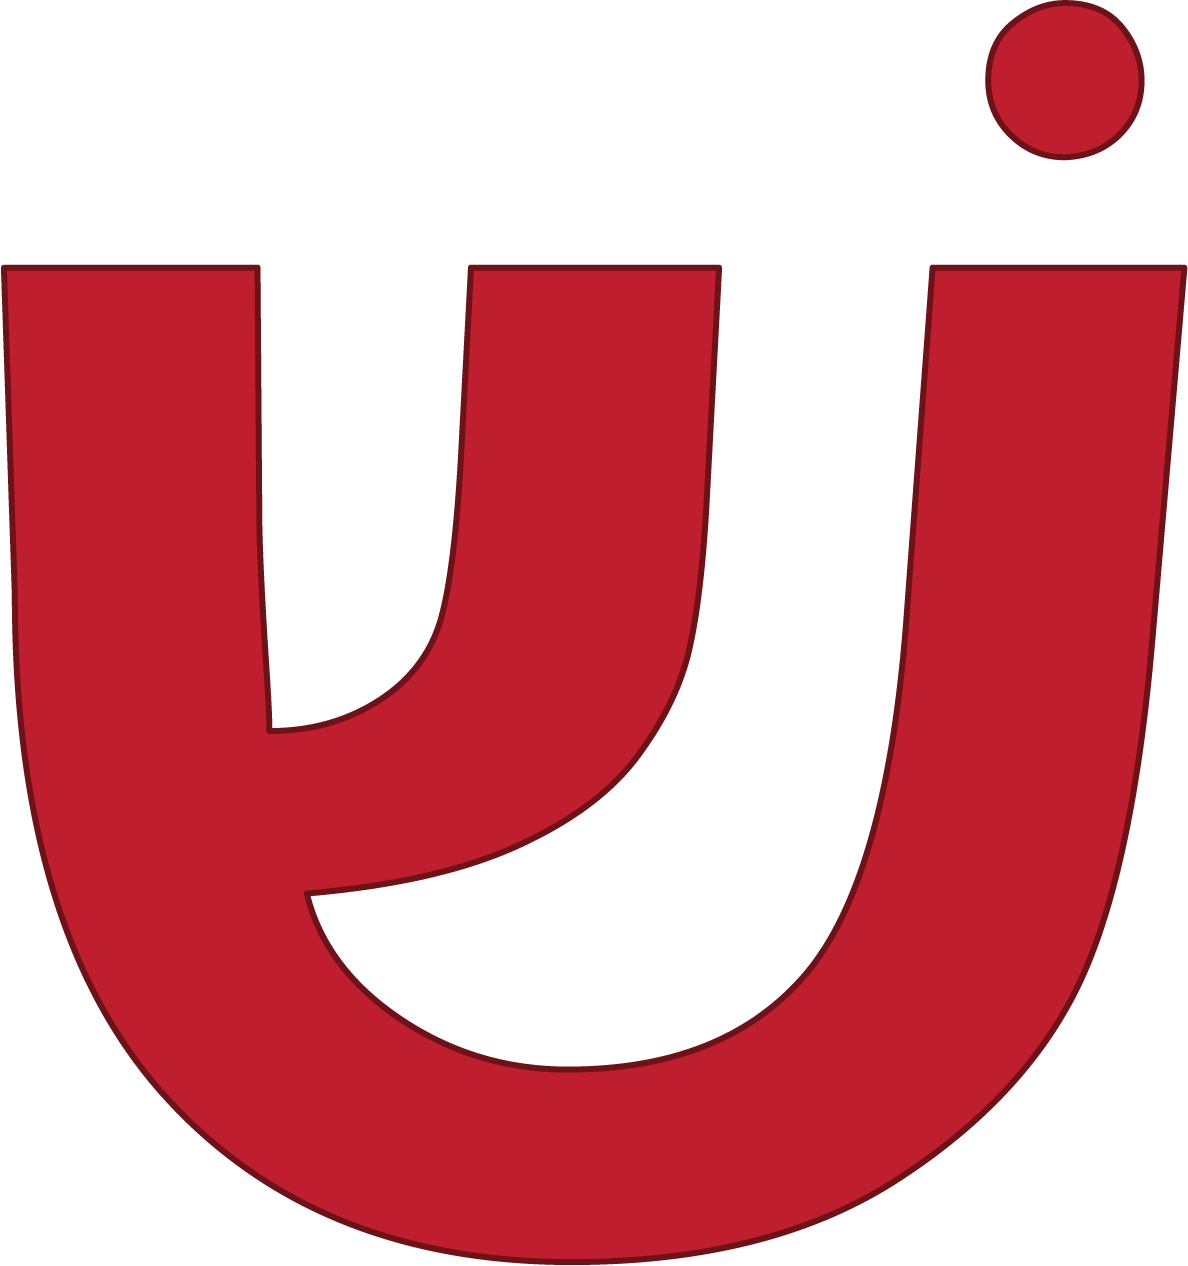
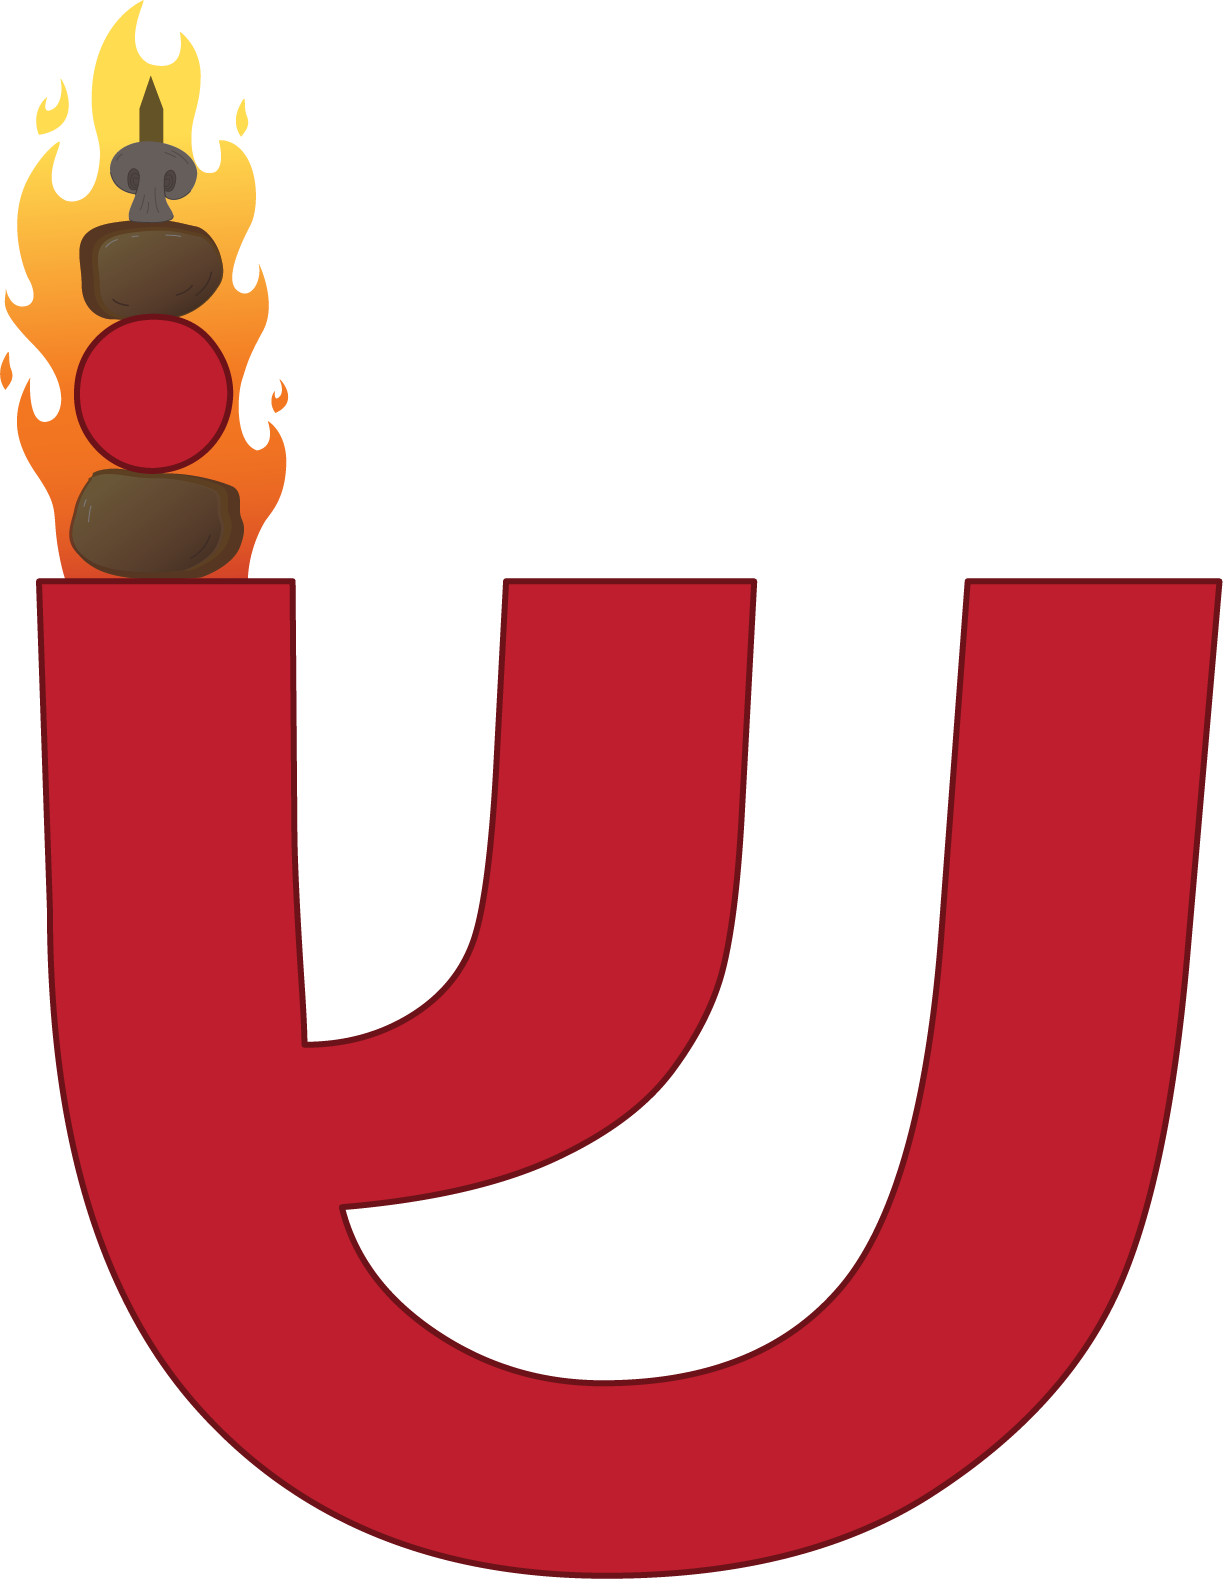
no message

diff --git a/start.html b/start.html
@@ -60,15 +60,22 @@
     }
 
     function onClick(){
-      console.log("click")
+      var origSrc = document.getElementById("img").src;
+      if(origSrc.indexOf("2")>0){
+        return;
+      }
+      var newSrc = origSrc.slice(0,origSrc.indexOf("."));
+      document.getElementById("img").src = newSrc + "2.png";
+      document.getElementById("img").setAttribute("height", "auto");
     }
+
 
     </script>
   </head>
   <body  style="height:100%">
     <div id="container">
       <div id="main">
-        <img id="img"  />
+        <img id="img" onclick="onClick()"  />
       </div>
       <div id="scrollView">
       </div>

diff --git a/ScrollViewJS.js b/ScrollViewJS.js
@@ -29,14 +29,11 @@
        } )
       img.src = "images/"+name+".png";
       img.id="img_"+name
-      img.setAttribute("style","display: block; margin:0 auto ; margin-top : 22px ")
+      img.setAttribute("style","display: block; margin:0 auto ; margin-bottom : 44px ")
       document.getElementById("scrollView").appendChild(img);
       
       if(indx==0){
         window.fitstLetter = img;
-        console.log("inn",fitstLetter)
-        
-       
       }
   }
 
